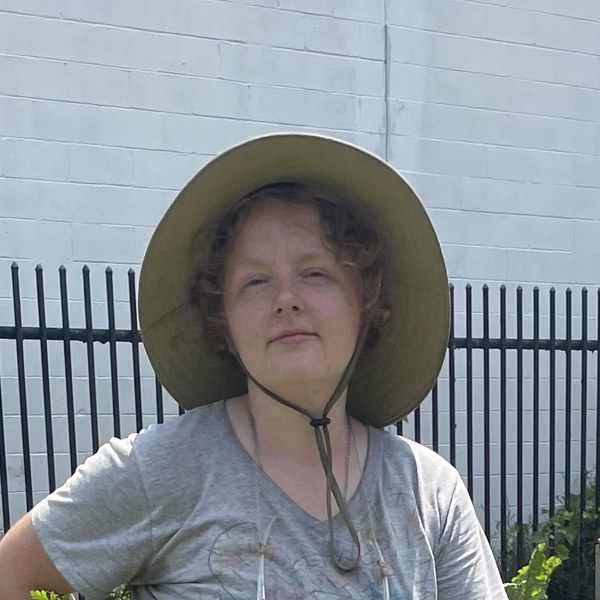
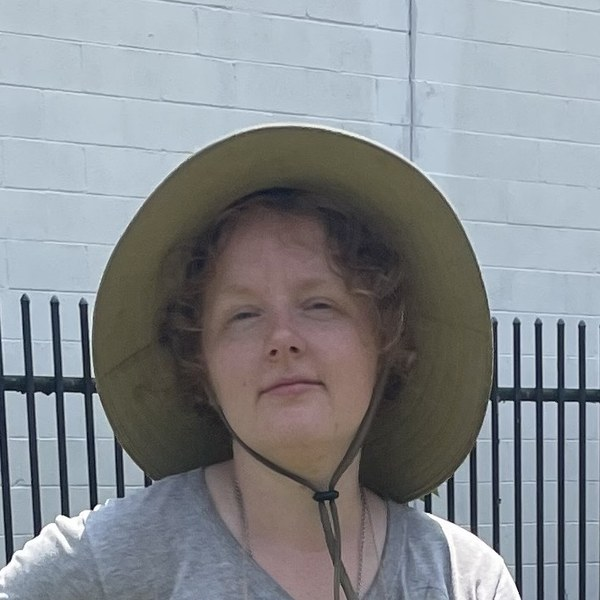
content: fix headshot crops and color per board feedback
- Susannah Duncan: recrop with room below the chin, face centered
- Stephen Kaye: recrop to center the face (source is a rough cutout;
  right side is blank, so it's a tight face crop)
- Julie Siftar: white-balance the tungsten cast, re-center
- Mark Schwartz: deskew ~6 degrees so he's level
- Lisa Natale: deskew ~16 degrees; move off the old /images/Lisa-480x480.png
  onto /images/headshots/lisa-natale.jpg like the rest, drop the old file
- Rain Woods: zoom in a bit

Claude-Session: https://claude.ai/code/session_019ACtAq6G3qaKRnf9qVhcxv

diff --git a/src/data/leaders/lisa-natale.md b/src/data/leaders/lisa-natale.md
@@ -1,7 +1,7 @@
 ---
 name: Lisa Natale
 title: Children's Program
-photo: /images/Lisa-480x480.png
+photo: /images/headshots/lisa-natale.jpg
 bio: |
   Lisa loves to grow, create, and play. She's been fortunate to pursue these passions under the tutelage of experts: children. A grateful mom and teacher, she has spent the last eight years crafting meaningful learning opportunities for people at various points in their educational journeys, from preschool to college. In every classroom and every community she has experienced, she strives to inspire openness, curiosity, and collaboration.
 ---
